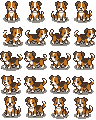
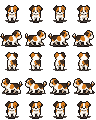
arte: troca a folha do cachorro por uma com as quatro direcoes
A folha anterior so tinha lateral, e o cachorro andava de lado ate na
vertical. A nova tem costas, frente e as duas laterais. Como o contorno
da arte e preto igual ao fundo, a silhueta vem da forma (buracos
internos preenchidos) e o contorno externo e redesenhado.

Claude-Session: https://claude.ai/code/session_012A3HcGRZ4ZYrhbeEK5eVCX

diff --git a/tools/arte/extrair_cachorro.py b/tools/arte/extrair_cachorro.py
@@ -2,29 +2,41 @@
 
     python tools/arte/extrair_cachorro.py
 
-Entrada: tools/arte/cachorro_original.webp (5 linhas x 4 quadros, fundo preto).
+Entrada: tools/arte/cachorro_original.webp (4 linhas x 4 quadros, fundo preto).
 Diferente da folha do gato, esta foi reamostrada com escala fracionaria: nao ha
 grade de pixel de arte para amostrar. Cada quadro e reduzido pela mesma escala
 (ESCALA px de origem por pixel do jogo), com a cor tirada da mediana do miolo
 de cada bloco e a paleta unificada no fim.
 
-A folha original so tem frente, sentado e lateral virada para a ESQUERDA. A
-saida segue a grade comum a gato e cachorro (tools/gerar_sprite_frames.gd):
-  0 andar_baixo    <- frente (linha 3 da origem)
-  1 andar_direita  <- lateral espelhada (linha 2 da origem)
-  2 andar_cima     <- lateral (linha 4 da origem); sem vista de costas
-  3 andar_esquerda <- lateral (linha 2 da origem)
-  4 parado         <- sentado (linha 5 da origem)
+O contorno da arte e preto puro, igual ao fundo: por cor os dois sao
+indistinguiveis. Por isso a silhueta vem da FORMA -- buracos pretos cercados
+pelo corpo (olho, nariz, linhas internas) sao preenchidos e pintados de
+CONTORNO -- e o contorno externo e redesenhado com 1 pixel em volta do corpo
+(a sombra fica sem contorno, como no original).
+
+A folha original tem costas, frente, lateral esquerda e lateral direita, sem
+quadro de "sentado". A saida segue a grade comum a gato e cachorro
+(tools/gerar_sprite_frames.gd):
+  0 andar_baixo    <- frente (linha 2 da origem)
+  1 andar_direita  <- lateral direita (linha 4 da origem)
+  2 andar_cima     <- costas (linha 1 da origem)
+  3 andar_esquerda <- lateral esquerda (linha 3 da origem)
+  4 parado         <- primeiro quadro de frente, repetido (a folha nao tem
+                      pose parada; repetir o quadro deixa o cachorro imovel)
 Saida: recursos/arte/cachorro.png. Requer: pip install pillow numpy
 """
 from pathlib import Path
-from PIL import Image
+from PIL import Image, ImageDraw
 import numpy as np
 
 RAIZ = Path(__file__).resolve().parents[2]
 F = 24
-ESCALA = 7.3
-LIMIAR_FUNDO = 60
+ESCALA = 8.5
+LIMIAR_FUNDO = 40
+CONTORNO = (28, 20, 18, 255)
+## Sombra: cinza escuro e sem saturacao. Nao recebe contorno.
+SOMBRA_MAX_SOMA = 240
+SOMBRA_MAX_SATURACAO = 18
 
 im = np.array(Image.open(RAIZ / 'tools/arte/cachorro_original.webp').convert('RGB')).astype(float)
 opaco = im.sum(2) > LIMIAR_FUNDO
@@ -39,25 +51,61 @@ def bandas(v, gap=12):
     return [x for x in r if x[1] - x[0] > 20]   # descarta ruido de compressao
 
 
+def preencher_buracos(mascara):
+    """Preto cercado pelo corpo vira parte da silhueta (flood fill a partir da borda)."""
+    alto, largo = mascara.shape
+    img = Image.new('L', (largo + 2, alto + 2), 0)
+    img.paste(Image.fromarray((mascara * 255).astype(np.uint8)), (1, 1))
+    ImageDraw.floodfill(img, (0, 0), 128)
+    return np.array(img)[1:-1, 1:-1] != 128
+
+
+def e_sombra(cor):
+    r, g, b = int(cor[0]), int(cor[1]), int(cor[2])
+    return r + g + b <= SOMBRA_MAX_SOMA and max(r, g, b) - min(r, g, b) <= SOMBRA_MAX_SATURACAO
+
+
 def reduzir(y0, y1, x0, x1):
     ys, xs = np.where(opaco[y0:y1 + 1, x0:x1 + 1])
     by0, by1, bx0, bx1 = ys.min() + y0, ys.max() + y0, xs.min() + x0, xs.max() + x0
+    silhueta = preencher_buracos(opaco[by0:by1 + 1, bx0:bx1 + 1])
     h = int(np.ceil((by1 - by0 + 1) / ESCALA)); w = int(np.ceil((bx1 - bx0 + 1) / ESCALA))
-    assert h <= F - 1 and w <= F, (w, h)
+    # +2: o contorno redesenhado ocupa um pixel de cada lado
+    assert h + 2 <= F and w + 2 <= F, (w, h)
     q = np.zeros((F, F, 4), np.uint8)
     oy = F - h - 1; ox = (F - w) // 2        # pes (sombra) na base do quadro
     for j in range(h):
         for i in range(w):
             ya, yb = int(by0 + j * ESCALA), int(by0 + (j + 1) * ESCALA)
             xa, xb = int(bx0 + i * ESCALA), int(bx0 + (i + 1) * ESCALA)
+            forma = silhueta[ya - by0:yb - by0, xa - bx0:xb - bx0]
+            if forma.size == 0 or forma.mean() <= 0.5:
+                continue
             bloco = opaco[ya:yb, xa:xb]
-            if bloco.size == 0 or bloco.mean() <= 0.5:
+            if bloco.mean() < 0.45:
+                # dentro da silhueta mas majoritariamente preto: e linha interna
+                q[oy + j, ox + i] = CONTORNO
                 continue
             miolo = im[ya + 1:yb - 1, xa + 1:xb - 1].reshape(-1, 3)
             miolo_opaco = opaco[ya + 1:yb - 1, xa + 1:xb - 1].reshape(-1)
             amostra = miolo[miolo_opaco] if miolo_opaco.any() else im[ya:yb, xa:xb].reshape(-1, 3)[bloco.reshape(-1)]
             q[oy + j, ox + i] = (*np.median(amostra, axis=0).astype(np.uint8), 255)
-    return q
+    return contornar(q)
+
+
+def contornar(q):
+    """1 pixel de contorno em volta do corpo; a sombra nao conta como corpo."""
+    corpo = (q[:, :, 3] > 0) & ~np.array([[e_sombra(q[y, x]) for x in range(F)] for y in range(F)])
+    saida = q.copy()
+    for y in range(F):
+        for x in range(F):
+            if corpo[y, x] or (q[y, x, 3] > 0 and not e_sombra(q[y, x])):
+                continue
+            vizinhos = [(y + dy, x + dx) for dy, dx in ((-1, 0), (1, 0), (0, -1), (0, 1))
+                        if 0 <= y + dy < F and 0 <= x + dx < F]
+            if any(corpo[v] for v in vizinhos):
+                saida[y, x] = CONTORNO
+    return saida
 
 
 origem = []
@@ -65,23 +113,24 @@ for (y0, y1) in bandas(opaco.any(1)):
     colunas = bandas(opaco[y0:y1 + 1].any(0))
     assert len(colunas) == 4, colunas
     origem.append([reduzir(y0, y1, x0, x1) for (x0, x1) in colunas])
-assert len(origem) == 5
+assert len(origem) == 4
 
-espelhar = lambda q: q[:, ::-1]
 grade = [
-    origem[2],
-    [espelhar(q) for q in origem[1]],
-    origem[3],
     origem[1],
-    origem[4],
+    origem[3],
+    origem[0],
+    origem[2],
+    [origem[1][0]] * 4,
 ]
 folha = np.zeros((F * 5, F * 4, 4), np.uint8)
 for r, linha in enumerate(grade):
     for c, q in enumerate(linha):
         folha[r * F:(r + 1) * F, c * F:(c + 1) * F] = q
 
-rgb = Image.fromarray(folha[:, :, :3]).quantize(colors=16, method=Image.Quantize.MEDIANCUT).convert('RGB')
-out = np.dstack([np.array(rgb), folha[:, :, 3]])
+rgb = np.array(Image.fromarray(folha[:, :, :3]).quantize(colors=16, method=Image.Quantize.MEDIANCUT).convert('RGB'))
+e_contorno = np.all(folha == np.array(CONTORNO, np.uint8), axis=2)
+rgb[e_contorno] = CONTORNO[:3]
+out = np.dstack([rgb, folha[:, :, 3]])
 out[out[:, :, 3] == 0, :3] = 0
 Image.fromarray(out.astype(np.uint8), 'RGBA').save(RAIZ / 'recursos/arte/cachorro.png')
 print('gravado recursos/arte/cachorro.png')

diff --git a/docs/decisoes/0013-arte-dos-personagens.md b/docs/decisoes/0013-arte-dos-personagens.md
@@ -22,13 +22,21 @@ Refazer a arte é rodar o script de novo, não retocar à mão.
 
 *(revisado em 2026-09-25, quando chegou a arte do cachorro)*
 
-`tools/arte/extrair_cachorro.py` normaliza `tools/arte/cachorro_original.webp`.
-Essa folha foi reamostrada com escala fracionária — não há grade de pixel de arte —,
-então cada quadro é reduzido pela mesma escala (7,3 px por pixel do jogo), com a cor
-tirada da mediana do miolo de cada bloco. A folha só tem frente, sentado e lateral
-virada para a esquerda: a lateral direita é a esquerda espelhada, e andando na
-vertical o cachorro continua na última lateral (`lateral_no_eixo_vertical`), porque
-de frente e sentado ele pareceria deslizar.
+`tools/arte/extrair_cachorro.py` normaliza `tools/arte/cachorro_original.webp`
+(folha trocada em 2026-09-25: costas, frente, lateral esquerda e lateral direita —
+a anterior só tinha lateral e o cachorro andava de lado até na vertical, o que
+ficava estranho). A folha foi reamostrada com escala fracionária — não há grade de
+pixel de arte —, então cada quadro é reduzido pela mesma escala (8,5 px por pixel
+do jogo), com a cor tirada da mediana do miolo de cada bloco.
+
+O contorno da arte é preto puro, igual ao fundo, então não dá para separá-los pela
+cor. A silhueta vem da forma: os buracos pretos cercados pelo corpo (olho, nariz,
+linhas internas) são preenchidos e pintados de contorno, e o contorno externo é
+redesenhado com 1 pixel em volta do corpo (a sombra fica sem contorno). A folha não
+tem pose parada: `parado` repete o primeiro quadro de frente.
+
+`AnimadorDirecional.lateral_no_eixo_vertical` continua existindo para folhas sem
+vista de costas, mas o cachorro atual não usa.
 
 A cor de cada vigia é **mecânica** (ADR 0010). Com a arte colorida, tingir o sprite
 por `modulate` escureceria o desenho e misturaria o marrom do cachorro com a cor do
